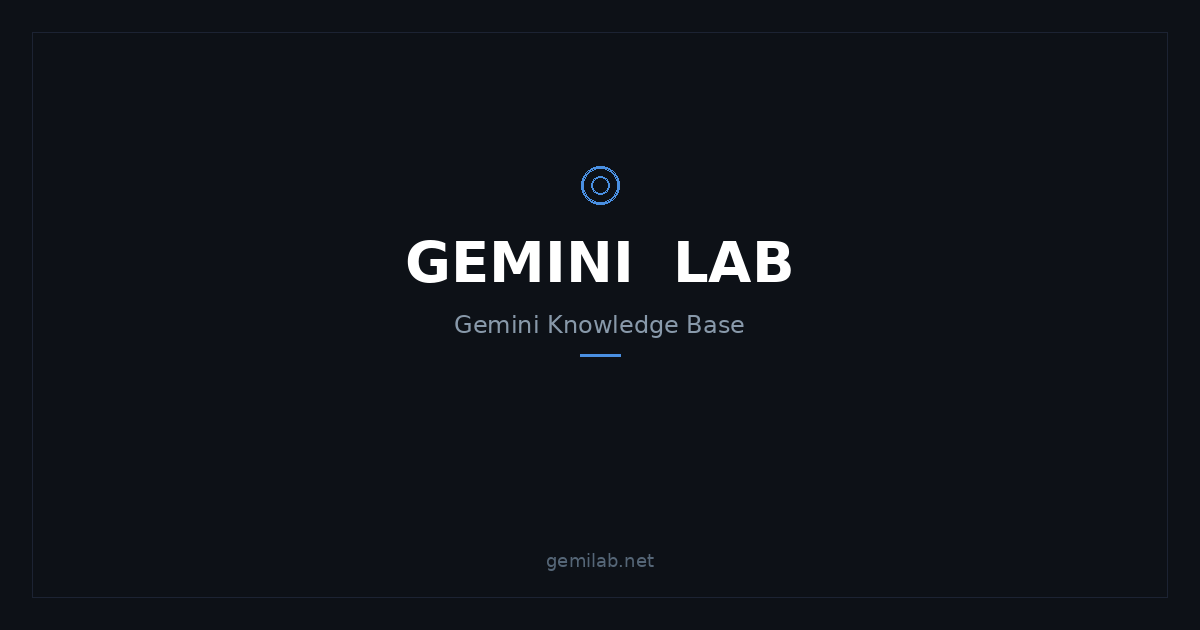
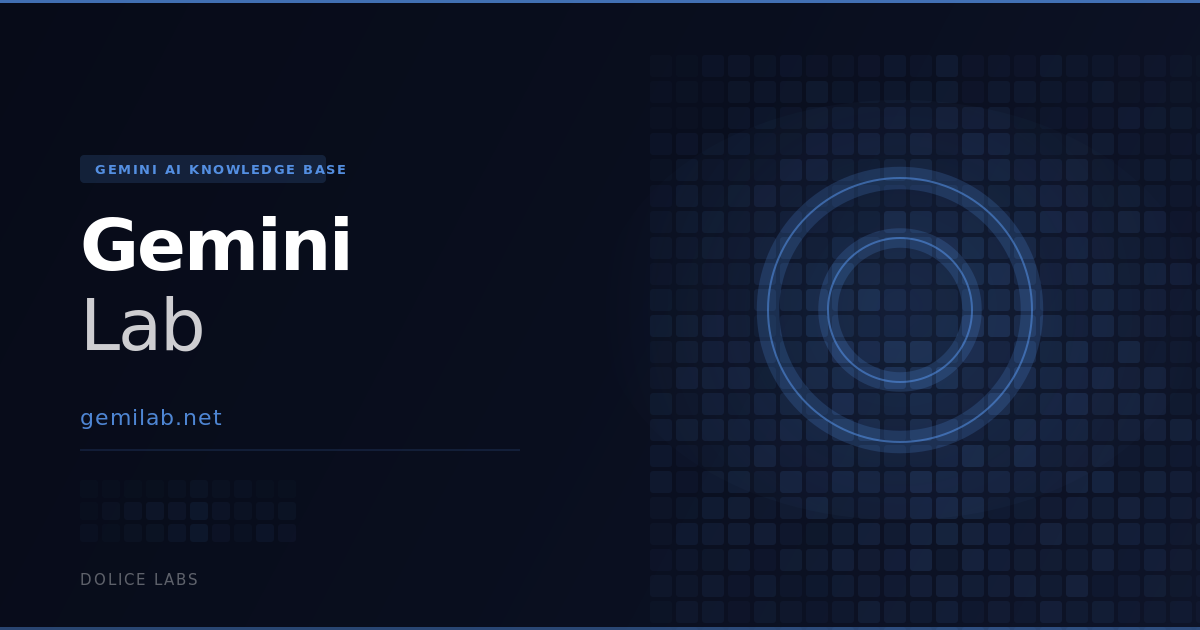
Update: OGP image — new modern design with dot grid and brand color

diff --git a/src/app/[locale]/opengraph-image.tsx b/src/app/[locale]/opengraph-image.tsx
@@ -5,75 +5,60 @@ export const size = { width: 1200, height: 630 };
 export const contentType = "image/png";
 
 export default async function Image() {
+  const brand  = "#5B9BF4";
+  const bgFrom = "#070b18";
+  const bgMid  = "#090e1e";
+  const bgTo   = "#0e1428";
+
   return new ImageResponse(
     (
       <div
         style={{
-          width: "100%",
-          height: "100%",
-          display: "flex",
-          flexDirection: "column",
-          alignItems: "center",
-          justifyContent: "center",
-          background: "linear-gradient(135deg, #0c0c14 0%, #16162a 60%, #1a1a32 100%)",
-          fontFamily: "sans-serif",
+          width: 1200, height: 630, display: "flex", position: "relative",
+          background: `linear-gradient(135deg, ${bgFrom} 0%, ${bgMid} 50%, ${bgTo} 100%)`,
+          overflow: "hidden", fontFamily: "sans-serif",
         }}
       >
-        {/* Logo mark — matches favicon */}
-        <div
-          style={{
-            width: 96,
-            height: 96,
-            borderRadius: 20,
-            background: "linear-gradient(135deg, #E8967D, #D4785E)",
-            display: "flex",
-            alignItems: "center",
-            justifyContent: "center",
-            fontSize: 56,
-            fontWeight: 700,
-            color: "#0c0c14",
-            marginBottom: 36,
-            boxShadow: "0 8px 32px rgba(232, 150, 125, 0.3)",
-          }}
-        >
-          C
+        {/* Top accent */}
+        <div style={{ position:"absolute", top:0, left:0, width:1200, height:3, background:brand, opacity:0.75, display:"flex" }} />
+        {/* Right dot grid */}
+        <div style={{ position:"absolute", left:580, top:0, width:620, height:630,
+          backgroundImage:`radial-gradient(circle, ${brand}42 1.5px, transparent 1.5px)`,
+          backgroundSize:"26px 26px", display:"flex" }} />
+        {/* Glow */}
+        <div style={{ position:"absolute", left:620, top:65, width:560, height:500,
+          borderRadius:"50%", background:`radial-gradient(ellipse, ${brand}18 0%, transparent 65%)`, display:"flex" }} />
+        {/* Outer ring */}
+        <div style={{ position:"absolute", left:755, top:170, width:290, height:290,
+          borderRadius:"50%", border:`22px solid ${brand}20`, display:"flex",
+          alignItems:"center", justifyContent:"center" }}>
+          {/* Outer ring outline */}
+          <div style={{ position:"absolute", left:-1, top:-1, width:290, height:290,
+            borderRadius:"50%", border:`2px solid ${brand}60`, display:"flex" }} />
+          {/* Inner ring */}
+          <div style={{ width:162, height:162, borderRadius:"50%", border:`18px solid ${brand}20`,
+            display:"flex", alignItems:"center", justifyContent:"center", position:"relative" }}>
+            <div style={{ position:"absolute", left:-1, top:-1, width:162, height:162,
+              borderRadius:"50%", border:`2px solid ${brand}60`, display:"flex" }} />
+          </div>
         </div>
-
-        {/* Site name */}
-        <div
-          style={{
-            fontSize: 52,
-            fontWeight: 700,
-            color: "#f0f0f0",
-            letterSpacing: "-0.02em",
-            marginBottom: 12,
-          }}
-        >
-          Gemini Lab
+        {/* Content */}
+        <div style={{ position:"absolute", left:80, top:138, display:"flex", flexDirection:"column" }}>
+          <div style={{ display:"flex", alignItems:"center", backgroundColor:`${brand}22`,
+            border:`1px solid ${brand}44`, borderRadius:4, padding:"5px 14px", marginBottom:38 }}>
+            <span style={{ fontSize:12, fontWeight:700, letterSpacing:"1.8px", color:brand }}>GEMINI AI KNOWLEDGE BASE</span>
+          </div>
+          <div style={{ display:"flex", flexDirection:"column", marginBottom:28 }}>
+            <span style={{ fontSize:84, fontWeight:800, color:"#ffffff", letterSpacing:"-2px", lineHeight:1 }}>Gemini</span>
+            <span style={{ fontSize:84, fontWeight:300, color:"#ffffff", opacity:0.78, letterSpacing:"-2px", lineHeight:1 }}>Lab</span>
+          </div>
+          <span style={{ fontSize:22, color:brand, opacity:0.88, letterSpacing:"1px", marginBottom:22 }}>gemilab.net</span>
+          <div style={{ width:440, height:1, backgroundColor:`${brand}38`, display:"flex" }} />
         </div>
-
-        {/* URL */}
-        <div
-          style={{
-            fontSize: 20,
-            color: "#777",
-            textAlign: "center",
-            lineHeight: 1.5,
-          }}
-        >
-          gemilab.net
-        </div>
-
-        {/* Accent line */}
-        <div
-          style={{
-            width: 80,
-            height: 3,
-            borderRadius: 2,
-            background: "linear-gradient(90deg, #E8967D, transparent)",
-            marginTop: 32,
-          }}
-        />
+        {/* Credit */}
+        <div style={{ position:"absolute", left:80, bottom:34, fontSize:13, letterSpacing:"2.5px", color:"#ffffff", opacity:0.28, display:"flex" }}>DOLICE LABS</div>
+        {/* Bottom accent */}
+        <div style={{ position:"absolute", bottom:0, left:0, width:1200, height:3, background:brand, opacity:0.4, display:"flex" }} />
       </div>
     ),
     { ...size }
